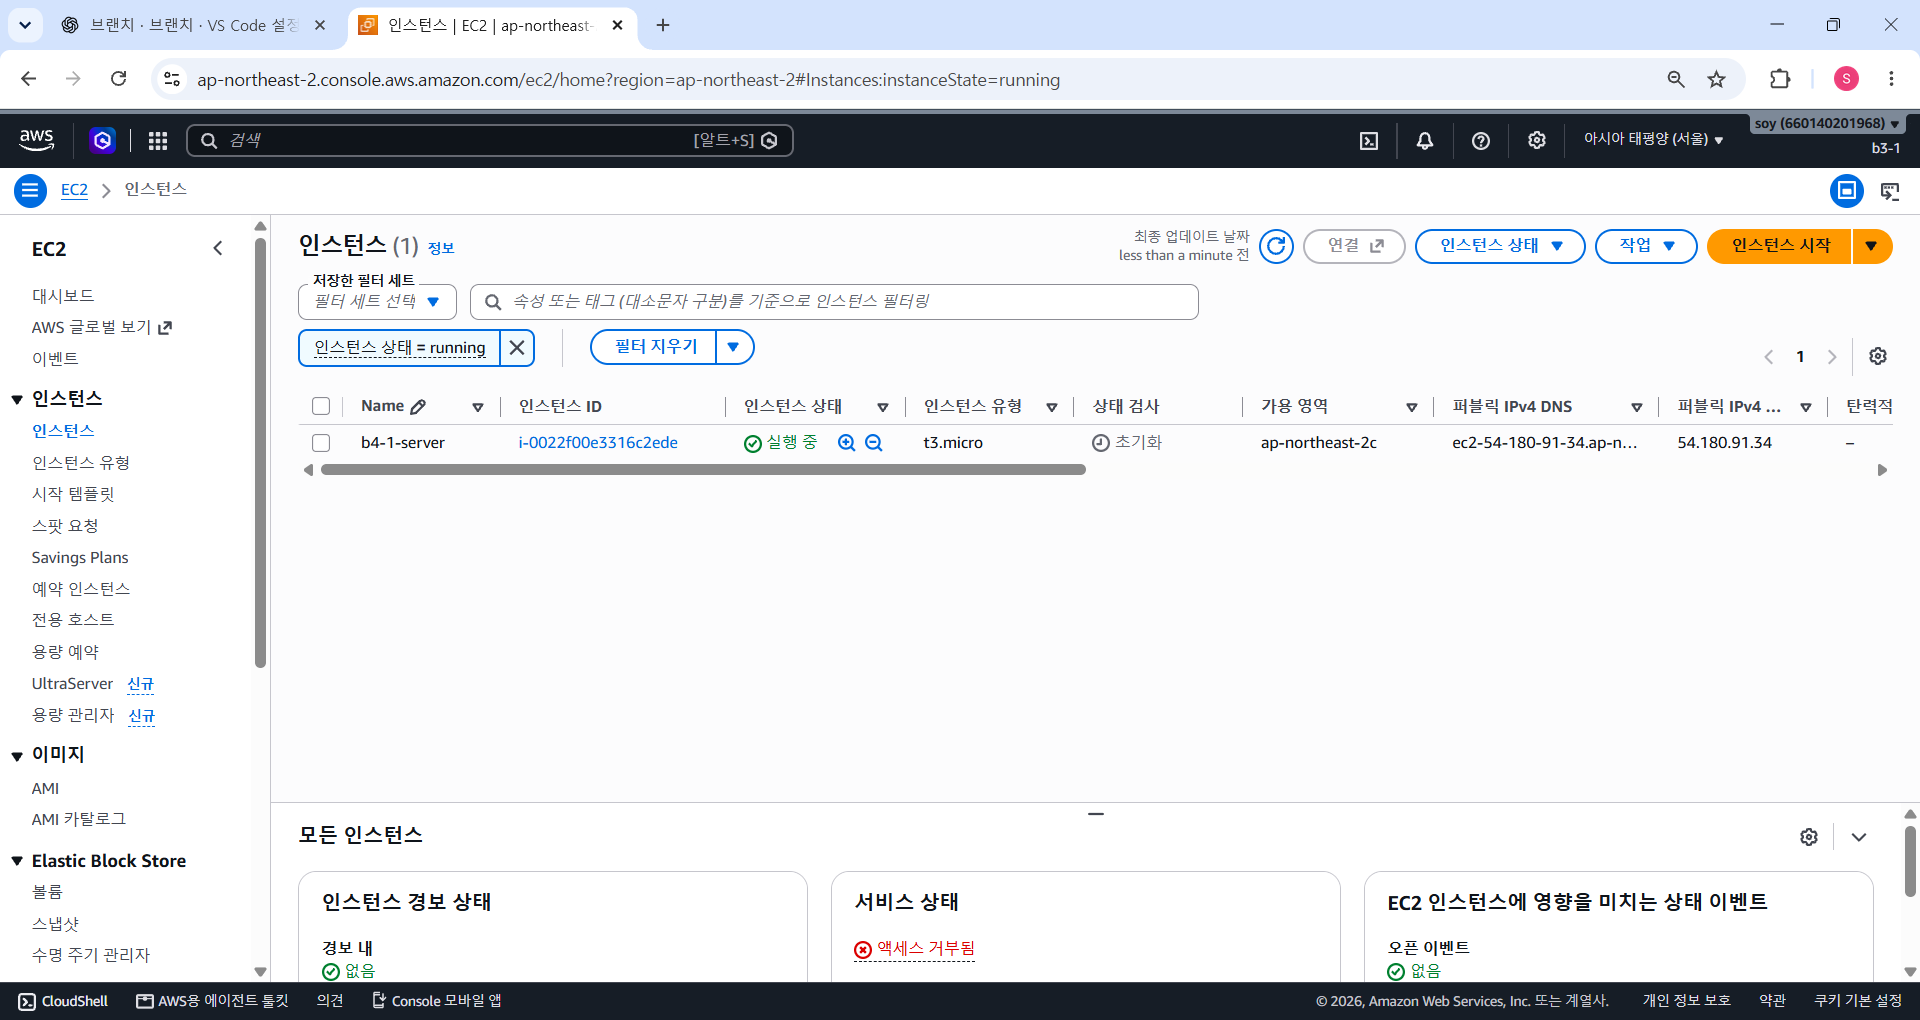
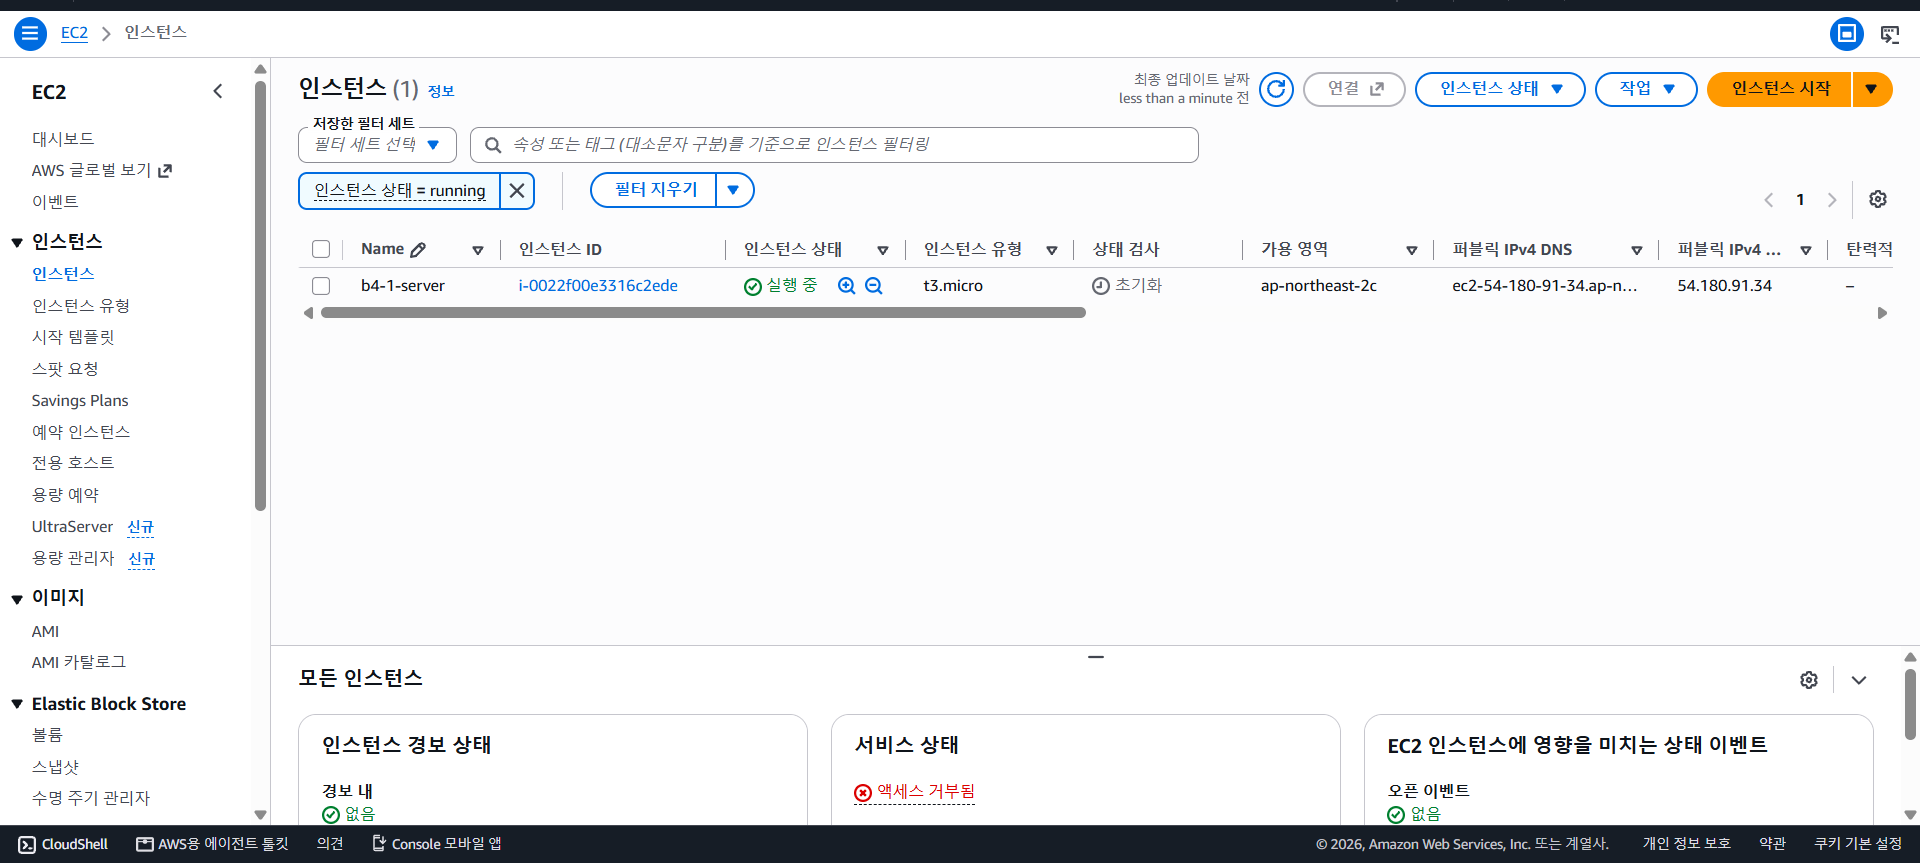
docs: B4-1 README 사용법·설정 항목 추가, 수행내역서에 필수 증거 8개 대응표 추가, 캡처 2장 마스킹·최신화

diff --git a/README.md b/README.md
@@ -1,0 +1,74 @@
+# B4-1 컴퓨터가 알아서 자기 상태를 점검하게 만들기
+
+AWS EC2(Ubuntu 22.04)에 보안·계정·권한을 설정하고, 과제 첨부 앱(`agent-app`)의 프로세스·포트·CPU/MEM/DISK를 매분 점검해 `monitor.log`에 남기는 Bash 스크립트 `monitor.sh`를 만든 기록입니다. 스크립트와 **수행내역서**가 결과물입니다. (첨부 앱은 재배포하지 않아 repo에 없습니다.)
+
+- 스크립트: [bin/monitor.sh](bin/monitor.sh)
+- 수행내역서: [docs/report.md](docs/report.md) — 설정 명령, 증거 캡처, 설계 이유가 절마다 들어 있습니다.
+- 증거 캡처: [docs/captures/](docs/captures/)
+
+## 사용법
+
+서버에 `$AGENT_HOME/bin/monitor.sh`로 설치해 두고, `agent-core` 그룹 계정(`agent-admin`, `agent-dev`)이 실행합니다.
+
+```bash
+sudo -u agent-admin /home/agent-admin/agent-app/bin/monitor.sh; echo "exit=$?"
+sudo tail -n 5 /var/log/agent-app/monitor.log
+```
+
+| 상황 | 출력 | 종료 코드 |
+|---|---|---|
+| 앱 정상 | `[OK]` + 방화벽·자원 상태, 임계값 초과 시 `[WARNING]` | 0 |
+| 앱 프로세스 없음 / 15034 LISTEN 아님 | `[ERROR] ...` + 로그에 `HEALTH_CHECK_FAILED` | 1 |
+| 방화벽(UFW) 꺼짐 | `[WARNING] Firewall (ufw) is not enabled` | 0 |
+
+임계값은 CPU 20% · MEM 10% · DISK 80%이고, 넘으면 경고만 하고 종료하지 않습니다. 로그 한 줄은 `[YYYY-MM-DD HH:MM:SS] PID:<앱 PID> CPU:..% MEM:..% DISK_USED:..%`입니다.
+
+매분 자동 실행은 `agent-admin`의 crontab에 등록했습니다.
+
+```
+* * * * * /home/agent-admin/agent-app/bin/monitor.sh >/dev/null 2>&1
+```
+
+## 설정 항목
+
+| 구분 | 설정 | 값 |
+|---|---|---|
+| 포트 | SSH | TCP 20022 (Root 원격 로그인 `PermitRootLogin no`) |
+| 포트 | 앱 | TCP 15034 |
+| 방화벽 | UFW | 기본 `deny incoming`, 20022·15034/tcp만 허용 (AWS 보안 그룹도 같은 두 개) |
+| 계정 | `agent-admin` / `agent-dev` / `agent-test` | 비밀번호 없는 계정, `sudo -iu`로 전환 |
+| 그룹 | `agent-common` | admin · dev · test |
+| 그룹 | `agent-core` | admin · dev (test 제외) |
+
+| 경로 | 소유자:그룹 | 권한 | 용도 |
+|---|---|---|---|
+| `/home/agent-admin/agent-app` (`$AGENT_HOME`) | agent-admin:agent-common | 750 | 앱 루트 |
+| `$AGENT_HOME/upload_files` | agent-admin:agent-common | 2770 + 기본 ACL | 공유 폴더 |
+| `$AGENT_HOME/api_keys` | agent-admin:agent-core | 2770 | 키 파일 (보안 폴더) |
+| `/var/log/agent-app` | agent-admin:agent-core | 2770 | `monitor.log` |
+| `$AGENT_HOME/bin/monitor.sh` | agent-dev:agent-core | 750 | 점검 스크립트 |
+
+환경 변수(`agent-admin`의 `~/.bashrc`): `AGENT_HOME` `AGENT_PORT` `AGENT_UPLOAD_DIR` `AGENT_KEY_PATH` `AGENT_LOG_DIR`. 키 파일 내용은 명세가 정한 테스트 값이라 repo에 넣지 않았습니다.
+
+## 설계 선택
+
+- **`pgrep -fn`으로 프로세스 찾기**: 제공 앱은 PyInstaller 실행 파일이라 같은 이름의 프로세스가 둘(부모·자식) 뜹니다. `-n`으로 가장 늦게 뜬 자식, 즉 포트를 연 쪽을 고릅니다.
+- **방화벽 상태는 `/etc/ufw/ufw.conf`로 판단**: `ufw status`는 sudo가 필요한데 cron 실행 계정에는 sudo가 없습니다.
+- **임계값 비교는 `awk`**: Bash `[ ]`는 정수만 비교해 `20.9` 같은 값을 못 다룹니다.
+- **로그 회전은 스크립트 안에서**: 10MB 이상이면 쓰기 직전에 `.9`를 지우고 번호를 밀어 `monitor.log`와 `.1`~`.9`, 최대 10개를 유지합니다. 매분 실행이 곧 점검이라 별도 logrotate 설정이 필요 없습니다.
+- **cron은 `~/.bashrc`를 읽지 않음**: `monitor.sh` 안에 `AGENT_PORT` 기본값을 두고 crontab에는 전체 경로만 적었습니다.
+- **명세와 제공 앱이 어긋난 곳은 앱에 맞춤**: 앱은 `AGENT_KEY_PATH`를 파일이 아닌 폴더로, 키 파일은 `secret.key` 이름으로 찾아 둘 다 맞췄습니다([수행내역서 §3-4](docs/report.md)).
+
+## 검증
+
+| 확인 항목 | 방법 | 결과 | 캡처 |
+|---|---|---|---|
+| SSH·Root 차단 | `sshd -T`, `ss -tulnp` | port 20022, permitrootlogin no | `step_1_01` `step_1_02` |
+| 방화벽 | `ufw status verbose` | 20022·15034만 허용 | `step_1_03` `step_1_04` |
+| 계정·권한 | `id`, `ls -ld`, `getfacl`, `agent-test` 접근 시도 | api_keys·로그는 test 거부 | `step_2_01`~`03` |
+| 앱 기동 | Boot Sequence, `ss -ltnp` | 5단계 `[OK]`, `Agent READY`, 15034 LISTEN | `step_3_02` `step_3_03` |
+| `monitor.sh` | 정상 / 앱 종료 / UFW 끔 실행 후 `echo $?` | 0 / 1 / 0(경고) | `step_4_01`~`03` |
+| 로그·회전 | `tail`, 10MB 테스트 파일 12회 실행 | 한 줄 누적, 10개 유지 | `step_5_01`~`03` |
+| cron | 등록 후 손대지 않고 대기 | 1분 간격으로 로그 증가 | `step_6_01` `step_6_02` |
+
+모든 확인 결과는 위 캡처와 수행내역서에 있습니다.

diff --git a/docs/report.md b/docs/report.md
@@ -1,5 +1,18 @@
 # B4-1 요구사항 수행 내역서
 
+실습 서버는 AWS EC2(Ubuntu 22.04.5 LTS, `t3.micro`)이고, 아래 절 순서는 작업 순서와 같다. 필수 증거 8개는 이렇게 대응한다.
+
+| # | 필수 증거 | 위치 | 캡처 |
+|---|---|---|---|
+| 1 | SSH 포트 20022 · Root 원격 접속 차단 | [§1-1](#1-1-ssh-포트-20022--root-원격-로그인-차단) | `step_1_01` `step_1_02` |
+| 2 | 방화벽 활성화, 20022·15034/tcp만 허용 | [§1-2](#1-2-방화벽ufw-20022tcp-15034tcp만-허용) · [§1-3](#1-3-aws-보안-그룹b4-1-sg) | `step_1_03` `step_1_04` |
+| 3 | 계정·그룹 생성 | [§2-1](#2-1-그룹과-계정) | `step_2_01` |
+| 4 | 디렉토리 구조·권한(ACL 포함) | [§2-2](#2-2-디렉토리와-권한) · [§2-3](#2-3-접근-확인) | `step_2_02` `step_2_03` |
+| 5 | Boot Sequence 5단계 `[OK]` · `Agent READY` | [§3-3](#3-3-앱-실행-boot-sequence와-포트) | `step_3_02` `step_3_03` |
+| 6 | `monitor.sh` 실행 결과(프로세스·포트·리소스·경고) | [§4](#4-monitorsh-점검-스크립트) | `step_4_01` `step_4_02` `step_4_03` |
+| 7 | `monitor.log` 누적 기록(최근 라인) | [§5-1](#5-1-monitorlog-누적-기록) · [§6-2](#6-2-자동-실행-확인-1분-후-로그-증가) | `step_5_01` `step_5_02` `step_6_02` |
+| 8 | crontab 매분 등록 · 자동 실행(1분 후 로그 증가) | [§6](#6-cron-매분-실행) | `step_6_01` `step_6_02` |
+
 ## 1. 문단속 (SSH 포트·Root 차단·방화벽)
 
 ### 1-1. SSH 포트 20022 + Root 원격 로그인 차단
